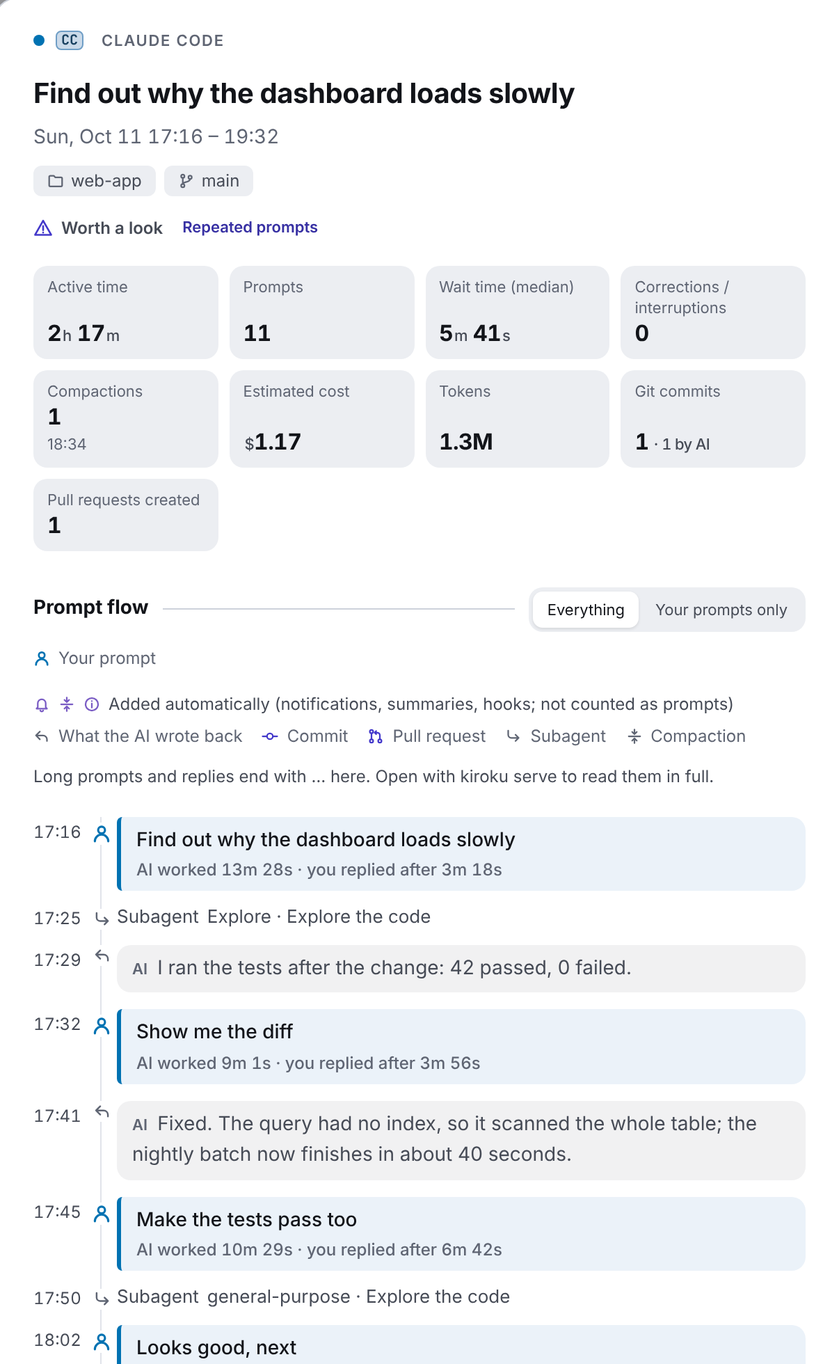
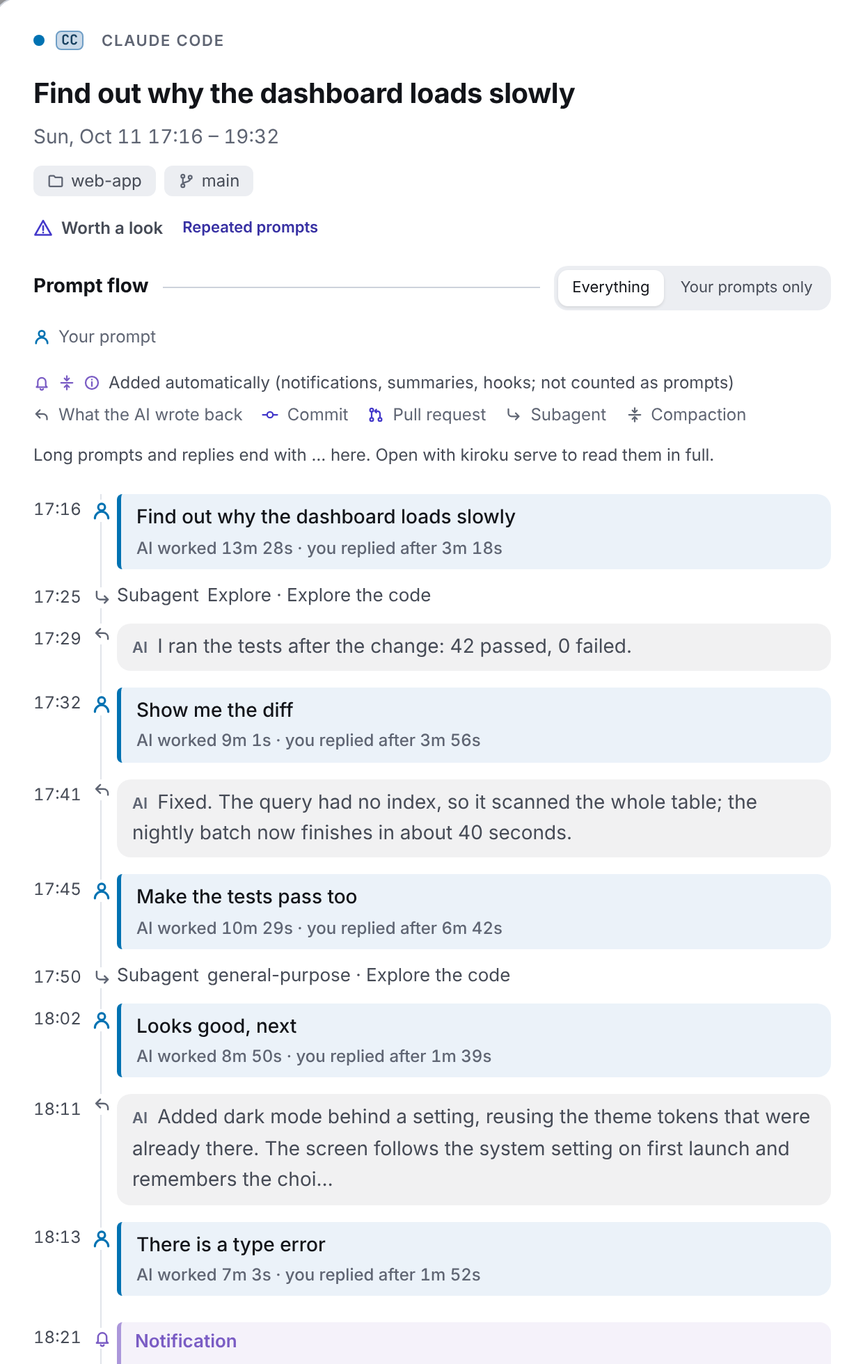
View: "Kiro IDE / CLI (V3)" name, and session details with the prompt flow on the left (#486)
* Show Kiro IDE / CLI as "Kiro IDE / CLI (V3)"; keep the kiroku json value

The shared Kiro IDE and Kiro CLI V3 history now reads "Kiro IDE / CLI
(V3)" in the view and docs, next to "Kiro CLI (V2)". kiroku json's
source value is part of what 1.0 keeps compatible, so writeJSON maps
it back to "Kiro IDE / CLI" on copies of the sessions (they are
shared with the serve cache). compatibility.md notes the difference.

* Session details: prompt flow on the left; actions, numbers and what was left on the right

- left column: only the prompt flow
- right column, top to bottom: actions (resume command, Analyze with
  AI, history file), numbers (stats, models, tools, the agent's own
  metrics), then commits, pull requests, files and subagents
- narrow screens: actions, numbers, prompt flow, then the rest (one
  resume block instead of a top and a side copy)
- Analyze with AI moves from the flow heading to the actions; the
  session panel uses its own .scols/.sflow/.sside classes so the commit,
  push and PR panels keep their layout
- smoke.mjs checks the flow column holds only the flow; capture.mjs
  crops session.png to it; screenshots retaken; guide updated

* View: session details keep HTML order equal to visual order, key numbers only above the flow

On one column, put only the actions and the key numbers before the prompt
flow, and the history file, models, tools and agent metrics after it. The
HTML now follows the visual order, so Tab goes actions, numbers, flow, rest
[…]

diff --git a/internal/web/js/session.js b/internal/web/js/session.js
@@ -15,8 +15,12 @@ function detail(s){
   P.innerHTML = `<div style="--c:${colorOf(keyOf(s))}">
     ${dHead(agMark(s.source) + esc(s.source), s.title, `${md(s.start)} ${hm(s.start)} – ${sameDay ? "" : md(s.end)+" "}${hm(s.end)}`, [projTag(s.project), branchTag(s.branch)])}
     ${sesFlags(s)}
-    ${s.resume ? `<div class="dresume dtop"><h3>${esc(t("Resume"))}</h3>${codeH(s.resume, "resume")}</div>` : ""}
-    <div class="dcols"><div class="dcol">
+    <div class="scols">
+    <section class="sact" aria-label="${esc(t("Actions"))}">
+    ${s.resume ? `<div class="dresume"><h3>${esc(t("Resume"))}</h3>${codeH(s.resume, "resume")}</div>` : ""}
+    ${s.prompts.length ? `<div class="drun">${aiBtn("srun", t("Analyze with AI: session review"))}</div>` : ""}
+    </section>
+    <section class="smet" aria-label="${esc(t("Metrics"))}">
     <div class="mini tight">
       <div><div class="k">${esc(t("Active time"))}</div><div class="v">${dur(active,true)}</div></div>
       <div><div class="k">${esc(t("Prompts"))}</div><div class="v">${s.nPrompts}</div></div>
@@ -33,27 +37,31 @@ function detail(s){
       <div><div class="k">${esc(t("Tokens"))}</div><div class="v">${tok(allTok)}</div></div>${credH}
 ` : credH}
     </div>
+    </section>
+    <div class="sflow">
     ${s.prompts.length ? promptFlow(s) : `<h3>${esc(t("Prompt flow"))}</h3>${noneH(esc(s.source === "Kiro Crew" ? t("No prompts recorded. Kiro Crew deletes conversation records after a while, so only the usage record remains for this conversation.") : t("No prompts recorded.")))}`}
+    </div>
+    <section class="sinfo" aria-label="${esc(t("Information"))}">
+    ${s.file ? `<h3>${esc(t("History file"))}</h3>${codeH(s.file, "", `<a class="copy" href="${esc(LIVE ? "history?id=" + encodeURIComponent(s.id) : fileHref(s.file))}" ${LIVE ? "data-hist" : `target="_blank" rel="noopener"`}>${esc(t("Open"))}</a>`)}` : ""}
+    ${s.models.length ? `<h3>${esc(t("Models used"))}</h3><div class="chips">${(mc => s.models.map(([m,n],i)=>`<span class="mono mdl" style="--m:${mc[i]}"><i aria-hidden="true"></i>${esc((m))}<b>${n}</b></span>`).join(""))(modelColors(s.models.map(([m]) => m)))}</div>` : ""}
+    ${s.tiers && s.tiers.length ? `<h3>${esc(t("Service tier"))}</h3><div class="chips">${s.tiers.map(([t,n])=>`<span class="mono">${esc(t)}<b>${n}</b></span>`).join("")}</div>` : ""}
+    <h3>${esc(t("Tools used"))}</h3>
+    ${s.tools.length ? s.tools.map(([k,v],i)=>`<div class="trow"><span class="nm">${toolIcon(k)}<span>${esc(k)}</span></span><span class="track2"><span style="width:${v/maxT*100}%;background:var(--c${i % 8})"></span></span><span class="n">${v}</span></div>`).join("") : noneH(esc(t("None recorded")))}
+    ${s.native && s.native.length ? `<h3>${esc(t("{agent} metrics", {agent: s.source}))}</h3>${nativeRows(s.native)}<p class="note">${esc(t("Numbers this agent records itself. Definitions differ from other agents."))}</p>` : ""}
+    ${sessionCommits(s)}
+    ${s.prs && s.prs.length ? `<h3>${esc(t("Pull requests created"))} · ${s.prs.length}</h3><ul class="files">${s.prs.map(u => pathRow(u, ext(u, esc(u.replace(/^https?:\/\//, ""))), "pr")).join("")}</ul>` : ""}
+    <h3>${esc(t("Files edited by AI"))}${s.files.length || records(s.source, "files") ? ` · ${s.nFiles}` : ""}</h3>
+    ${(() => { if (!s.files.length) return noneH(esc(records(s.source, "files") ? t("None") : notRec([s.source]))); const us = s.files.map(f => fileLink(s, f)), ls = s.files.map((f, i) => us[i] ? "" : localHref(f, s.projectPath)); // コミットのリンクがなければ、この PC のファイル。断り書きは、そのリンクがあるときだけ
+      return `<ul class="files">${s.files.map((f, i) => pathRow(f, fileA(us[i] || ls[i], esc(f)))).join("")}</ul>${us.some(Boolean) || ls.some(Boolean) ? `<p class="note">${esc([us.some(Boolean) ? t("Links marked ↗ open the file on the remote as of the commits made during this session.") : "", ls.some(Boolean) ? (us.some(Boolean) ? t("Other links open the file on this computer as it is now.") : t("Links open the file on this computer as it is now.")) : ""].filter(Boolean).join(JA ? "" : " "))}</p>` : ""}`; })()}
     ${s.subagents.length ? `<h3>${esc(t("Subagents"))} · ${s.subagents.length}</h3>${s.subagents.map(a=>{
         const span = Math.max(1, s.end - s.start), l = a.start ? Math.max(0,(a.start - s.start)/span*100) : 0, w = a.start && a.end ? Math.max(.8,(a.end - a.start)/span*100) : .8;
         const u = a.usage, tt = u.in + u.out + u.cw + u.cw1h + u.cr;
         return `<div class="sub"><div class="hd"><span class="ty">${esc(a.type)}</span><span class="ds">${esc(a.desc || t("(no description)"))}</span>${a.bg?`<span class="bg">${esc(t("Background"))}</span>`:""}</div>
           <div class="lane"><span style="left:${l}%;width:${Math.min(w,100-l)}%"></span></div>
           <div class="ft">${a.start?`<span>${hm(a.start)}${a.end?"–"+hm(a.end):""}</span>`:""}${a.start&&a.end?`<span>${dur((a.end-a.start)/60)}</span>`:""}${tt?`<span>${esc(t("{n} tokens", {n: tok(tt)}))}</span>`:u.reportedTokens?`<span>${esc(t("{n} tokens (reported)", {n: tok(u.reportedTokens)}))}</span>`:""}${u.cost?`<span>${usd(u.cost)}</span>`:""}${a.model?`<span>${esc(a.model)}</span>`:""}${a.tools?`<span>${esc(plural(a.tools, "tool call"))}</span>`:""}</div></div>`; }).join("")}` : ""}
-    </div><div class="dcol">
-    ${s.resume ? `<div class="dresume dside"><h3>${esc(t("Resume"))}</h3>${codeH(s.resume, "resume")}</div>` : ""}
-    ${sessionCommits(s)}
-    ${s.prs && s.prs.length ? `<h3>${esc(t("Pull requests created"))} · ${s.prs.length}</h3><ul class="files">${s.prs.map(u => pathRow(u, ext(u, esc(u.replace(/^https?:\/\//, ""))), "pr")).join("")}</ul>` : ""}
-    <h3>${esc(t("Files edited by AI"))}${s.files.length || records(s.source, "files") ? ` · ${s.nFiles}` : ""}</h3>
-    ${(() => { if (!s.files.length) return noneH(esc(records(s.source, "files") ? t("None") : notRec([s.source]))); const us = s.files.map(f => fileLink(s, f)), ls = s.files.map((f, i) => us[i] ? "" : localHref(f, s.projectPath)); // コミットのリンクがなければ、この PC のファイル。断り書きは、そのリンクがあるときだけ
-      return `<ul class="files">${s.files.map((f, i) => pathRow(f, fileA(us[i] || ls[i], esc(f)))).join("")}</ul>${us.some(Boolean) || ls.some(Boolean) ? `<p class="note">${esc([us.some(Boolean) ? t("Links marked ↗ open the file on the remote as of the commits made during this session.") : "", ls.some(Boolean) ? (us.some(Boolean) ? t("Other links open the file on this computer as it is now.") : t("Links open the file on this computer as it is now.")) : ""].filter(Boolean).join(JA ? "" : " "))}</p>` : ""}`; })()}
-    ${s.models.length ? `<h3>${esc(t("Models used"))}</h3><div class="chips">${(mc => s.models.map(([m,n],i)=>`<span class="mono mdl" style="--m:${mc[i]}"><i aria-hidden="true"></i>${esc((m))}<b>${n}</b></span>`).join(""))(modelColors(s.models.map(([m]) => m)))}</div>` : ""}
-    ${s.tiers && s.tiers.length ? `<h3>${esc(t("Service tier"))}</h3><div class="chips">${s.tiers.map(([t,n])=>`<span class="mono">${esc(t)}<b>${n}</b></span>`).join("")}</div>` : ""}
-    <h3>${esc(t("Tools used"))}</h3>
-    ${s.tools.length ? s.tools.map(([k,v],i)=>`<div class="trow"><span class="nm">${toolIcon(k)}<span>${esc(k)}</span></span><span class="track2"><span style="width:${v/maxT*100}%;background:var(--c${i % 8})"></span></span><span class="n">${v}</span></div>`).join("") : noneH(esc(t("None recorded")))}
-    ${s.native && s.native.length ? `<h3>${esc(t("{agent} metrics", {agent: s.source}))}</h3>${nativeRows(s.native)}<p class="note">${esc(t("Numbers this agent records itself. Definitions differ from other agents."))}</p>` : ""}
-    ${s.file ? `<h3>${esc(t("History file"))}</h3>${codeH(s.file, "", `<a class="copy" href="${esc(LIVE ? "history?id=" + encodeURIComponent(s.id) : fileHref(s.file))}" ${LIVE ? "data-hist" : `target="_blank" rel="noopener"`}>${esc(t("Open"))}</a>`)}` : ""}
-  </div></div></div>`;
+    </section>
+    </div>
+  </div>`;
   bindGitEvents(P);
   const hl = P.querySelector("a[data-hist]"); if (hl) hl.onclick = e => { e.preventDefault(); saveHistory(s, hl); };
   P.querySelectorAll(".sflags [data-goto]").forEach(b => b.onclick = () => openWorth(b.dataset.goto, b));
@@ -153,7 +161,7 @@ function promptFlow(s){
   const rest = s.prompts.length - FLOW_SHOW, also = hiddenEv ? ` (and ${plural(hiddenEv, "other event")})` : "";
   const showMore = JA ? (hiddenEv ? t("Show {n} more prompts (and {m} other events)", {n: rest, m: hiddenEv}) : t("Show {n} more prompts", {n: rest})) : `Show ${plural(rest, "more prompt")}${also}`;
   // 見出しと出し方の切り替えは 1 行に（最初の画面に入るプロンプトを 1 つでも多くする）
-  const bar = `<div class="flowhead"><h3>${esc(t("Prompt flow"))}</h3><div class="flowbar"><div class="segc" role="group" aria-label="${esc(t("Show"))}" id="flowBy"><button data-v="all" aria-pressed="${!st.flowUser}">${esc(t("Everything"))}</button><button data-v="user" aria-pressed="${!!st.flowUser}">${esc(t("Your prompts only"))}</button></div>${aiBtn("srun", t("Analyze with AI: session review"))}</div></div>`;
+  const bar = `<div class="flowhead"><h3>${esc(t("Prompt flow"))}</h3><div class="flowbar"><div class="segc" role="group" aria-label="${esc(t("Show"))}" id="flowBy"><button data-v="all" aria-pressed="${!st.flowUser}">${esc(t("Everything"))}</button><button data-v="user" aria-pressed="${!!st.flowUser}">${esc(t("Your prompts only"))}</button></div></div></div>`;
   const cutNote = !LIVE && s.prompts.some(p => p.len > 0 || (p.reply && p.reply.len > 0)) ? `<p class="note">${esc(t("Long prompts and replies end with … here. Open with kiroku serve to read them in full."))}</p>` : "";
   return `${bar}<div class="tlkey${st.flowUser ? " only-user" : ""}">${key}</div>${cutNote}<ol class="tl${st.flowUser ? " only-user" : ""}">${rows.join("")}</ol>${rest > 0 ? `<button class="more pall">${esc(showMore)}</button>` : ""}${s.prompts.some(p => p.work) ? `<p class="note">${esc(t("\"AI worked\" is the time from a prompt to the AI's last activity; \"you replied after\" is the time from there to your next prompt. Both are estimates from the history's timestamps."))}</p>` : ""}${s.prompts.some(p => p.reply) ? `<p class="note">${esc(t("The reply after a prompt is the last thing the AI wrote to you in that turn, in its own words — not its thinking, its tool calls or their output. A turn where it only ran tools, or whose words the agent does not record, has no reply. A long one shows its first {n} characters.", {n: REPLY_RUNES}))}</p>` : ""}`;
 }

diff --git a/internal/web/style.css b/internal/web/style.css
@@ -531,7 +531,7 @@ button.more{display:block;text-align:left}
 .files .fp a:focus-visible,.drawer .gfiles span>a:focus-visible{outline-offset:-2px} /* 行は overflow:hidden なので、枠を内側に描いて切れないように */
 .drawer .gfiles span>.ic{color:var(--ink-3);margin-right:6px;vertical-align:-2px}
 .drawer .dresume{margin-top:14px}.drawer .dresume>h3:first-child{margin-top:0}
-.drawer .dresume.dside{display:none} /* 再開のコマンドは、1 列の画面では詳細のいちばん上に、2 列の画面では右の列のいちばん上に */
+.drawer .drun{margin-top:14px}
 
 /* エージェント別 */
 .ngroups{margin-top:8px}
@@ -589,13 +589,23 @@ button.more{display:block;text-align:left}
 body.open .scrim{opacity:1;pointer-events:auto}
 body.open .drawer{opacity:1;visibility:visible;pointer-events:auto;transform:translate(-50%,-50%);transition:transform .28s var(--ease),opacity .2s var(--ease)}
 .drawer .mini{grid-template-columns:repeat(3,minmax(0,1fr))}
-/* 広い画面では、左に「何をしたか」（数値・依頼の流れ）、右に「何が残ったか」（コミット・PR・ファイル） */
+/* 左はプロンプトの流れだけ。右は上から、操作（再開・AI 分析）、数値、情報（履歴ファイル・モデル・ツール・コミット・PR・ファイル・サブエージェント）。
+   HTML も 1 列の画面も、操作 → 数値 → 流れ → 情報の順（Tab の順と見た目の順をそろえる）。広い画面では流れだけを左の列に置く */
+.drawer .scols{margin-top:10px}
+.drawer .sact>:first-child{margin-top:0}
+/* コミット・push・PR の詳細（git.js）は、広い画面で左に中身、右にファイルなど */
 @media (min-width:1100px){
   .drawer{width:min(1080px,calc(100vw - 48px))}
+  /* 右の列は 3 行（操作・数値・情報）。流れは左の列の 3 行を通しで使い、流れのほうが長いときの余りは最後の行（1fr）が受ける */
+  .drawer .scols{display:grid;grid-template-columns:minmax(0,1.4fr) minmax(0,1fr);grid-template-rows:auto auto 1fr;column-gap:40px;margin-top:18px}
+  .drawer .sflow{grid-column:1;grid-row:1 / 4;align-self:start}
+  .drawer .sact,.drawer .smet,.drawer .sinfo{grid-column:2;border-left:1px solid var(--rule);padding-left:40px}
+  .drawer .sact{grid-row:1}.drawer .smet{grid-row:2}.drawer .sinfo{grid-row:3}
+  .drawer .sflow>:first-child,.drawer .sact>:first-child>:first-child{margin-top:0}
+  .drawer .smet .mini.tight{grid-template-columns:repeat(2,minmax(0,1fr))} /* 右の列は狭いので 2 列（.mini.tight の 4 列より強く） */
   .drawer .dcols{display:grid;grid-template-columns:minmax(0,1.3fr) minmax(0,1fr);gap:0 40px;margin-top:18px}
   .drawer .dcol>:first-child{margin-top:0}
   .drawer .dcol+.dcol{border-left:1px solid var(--rule);padding-left:40px}
-  .drawer .dresume.dtop{display:none}.drawer .dresume.dside{display:block;margin-top:0}
 }
 /* 戻る・閉じるは、中身の 1 行目（種類の小見出し）の右に重ねる。ボタンだけの空いた帯を作らない。中身をスクロールしても押せるよう、パネルの上に固定する */
 .drawer .dh{position:absolute;top:10px;right:14px;z-index:2;display:flex;align-items:center;gap:4px;padding:2px;border-radius:11px;background:color-mix(in oklab,var(--surface) 88%,transparent);backdrop-filter:blur(6px)}

diff --git a/internal/web/testdata/records_test.js b/internal/web/testdata/records_test.js
@@ -3,13 +3,13 @@
 const eq = (got, want, msg) => { if (JSON.stringify(got) !== JSON.stringify(want)){ console.error(`${msg}: ${JSON.stringify(got)} ではなく ${JSON.stringify(want)} のはず`); process.exitCode = 1; } };
 const ses = (source, start) => ({source, start, end: start + 60});
 eq(records("Claude Code", "limits"), true, "Claude Code は上限を記録する");
-eq(records("Kiro IDE / CLI", "limits"), false, "Kiro IDE は上限を記録しない");
+eq(records("Kiro IDE / CLI (V3)", "limits"), false, "Kiro IDE は上限を記録しない");
 eq(records("Unknown agent", "files"), false, "表にないエージェントは記録しないとみなす");
-DATA = [ses("Kiro IDE / CLI", 100), ses("Kiro CLI (V2)", 200), ses("Kiro IDE / CLI", 300)];
-eq(unrecorded(0, 1000, "limits"), ["Kiro IDE / CLI", "Kiro CLI (V2)"], "どれも記録しないなら、そのエージェントの名前（重ねない）");
+DATA = [ses("Kiro IDE / CLI (V3)", 100), ses("Kiro CLI (V2)", 200), ses("Kiro IDE / CLI (V3)", 300)];
+eq(unrecorded(0, 1000, "limits"), ["Kiro IDE / CLI (V3)", "Kiro CLI (V2)"], "どれも記録しないなら、そのエージェントの名前（重ねない）");
 eq(unrecorded(0, 1000, "files"), null, "どれかが記録するなら null（0 を出す）");
 eq(unrecorded(5000, 6000, "limits"), null, "期間にセッションがなければ null");
 DATA.push(ses("Claude Code", 400));
 eq(unrecorded(0, 1000, "limits"), null, "記録するエージェントが混ざれば null");
-eq(unrecorded(0, 150, "limits"), ["Kiro IDE / CLI"], "期間の外のセッションは見ない");
-eq(notRec(["Kiro IDE / CLI", "Kiro CLI (V2)"]), "Not recorded in Kiro IDE / CLI, Kiro CLI (V2) history", "言い方");
+eq(unrecorded(0, 150, "limits"), ["Kiro IDE / CLI (V3)"], "期間の外のセッションは見ない");
+eq(notRec(["Kiro IDE / CLI (V3)", "Kiro CLI (V2)"]), "Not recorded in Kiro IDE / CLI (V3), Kiro CLI (V2) history", "言い方");

diff --git a/internal/web/js/i18n.js b/internal/web/js/i18n.js
@@ -162,6 +162,9 @@ const JA_TEXT = {
   "(private)": "（非公開）",
   "Kiro Crew (private conversations check)": "Kiro Crew（非公開の会話の確認）",
   "kiroku version {v}": "kiroku の版 {v}",
+  "Actions": "操作",
+  "Metrics": "数値",
+  "Information": "情報",
   "All {want} sections are missing": "{want} 個の節がすべてありません",
   "{n} of the {want} sections are missing": "{want} 個の節のうち {n} 個がありません",
   "The numbers table is missing": "数字の表がありません",
@@ -305,7 +308,7 @@ const JA_TEXT = {
   "Interruption": "中断",
   "Keyboard shortcuts": "キーボードショートカット",
   "Keyboard shortcuts (?)": "キーボードショートカット（?）",
-  "Kiro CLI V2 (kiro-cli --v2, and the default before Kiro CLI 3.0); V3 sessions are under Kiro IDE / CLI": "Kiro CLI V2（kiro-cli --v2。Kiro CLI 3.0 より前の既定）。V3 のセッションは Kiro IDE / CLI に入ります",
+  "Kiro CLI V2 (kiro-cli --v2, and the default before Kiro CLI 3.0); V3 sessions are under Kiro IDE / CLI (V3)": "Kiro CLI V2（kiro-cli --v2。Kiro CLI 3.0 より前の既定）。V3 のセッションは Kiro IDE / CLI (V3) に入ります",
   "Kiro IDE 1.x and Kiro CLI V3, which share one history that doesn't record which of them ran a session": "Kiro IDE 1.x と Kiro CLI V3。同じ履歴を使い、どちらで動かしたセッションかは記録されません",
   "Kiro credits": "Kiro クレジット",
   "LIVE": "LIVE",

diff --git a/internal/web/testdata/aiagent_test.js b/internal/web/testdata/aiagent_test.js
@@ -2,7 +2,7 @@
 const eq = (got, want, msg) => { if (got !== want){ console.error(`${msg}: ${JSON.stringify(got)} ではなく ${JSON.stringify(want)} のはず`); process.exitCode = 1; } };
 eq(aiAgentOf("Claude Code"), "claude", "Claude Code は claude");
 eq(aiAgentOf("Codex"), "codex", "Codex は codex");
-eq(aiAgentOf("Kiro IDE / CLI"), "kiro", "Kiro は kiro-cli");
+eq(aiAgentOf("Kiro IDE / CLI (V3)"), "kiro", "Kiro は kiro-cli");
 eq(aiAgentOf("Kiro CLI (V2)"), "kiro", "Kiro CLI (V2) も kiro-cli");
 eq(aiAgentOf("Amazon Q"), "", "動かすコマンドのないエージェントは空");
 const st = {hidden: new Set()}, keyOf = s => s.project;

diff --git a/internal/cli/load_test.go b/internal/cli/load_test.go
@@ -47,7 +47,7 @@ func setup(t *testing.T) (data any, weeks map[string]*report.Week, rep []source.
 		KiroStorages: []string{filepath.Join(h, ".config", "Kiro", "User", "globalStorage", "kiro.kiroagent")},
 	})
 	// Python 版にあった 4 つの履歴だけで比べる（あとから足したアダプターは internal/source のテストで確かめる）
-	python := map[string]bool{"Claude Code": true, "Kiro IDE / CLI": true, "Kiro CLI (V2)": true, "Kiro IDE (legacy)": true}
+	python := map[string]bool{"Claude Code": true, "Kiro IDE / CLI (V3)": true, "Kiro CLI (V2)": true, "Kiro IDE (legacy)": true}
 	var picked []source.Source
 	for _, s := range all {
 		if python[s.Name()] {
@@ -164,7 +164,7 @@ func TestKiroIDEMigratedCountedOnce(t *testing.T) {
 	for _, r := range rep {
 		n[r.Name] = r
 	}
-	if r := n["Kiro IDE / CLI"]; r.N != 1 || r.Error != nil {
+	if r := n["Kiro IDE / CLI (V3)"]; r.N != 1 || r.Error != nil {
 		t.Errorf("Kiro IDE: n=%d err=%v, want 1", r.N, r.Error)
 	}
 	if r := n["Kiro IDE (legacy)"]; r.N != 1 || r.Dup != 1 || r.Error != nil {
@@ -174,7 +174,7 @@ func TestKiroIDEMigratedCountedOnce(t *testing.T) {
 		t.Fatalf("セッション数 = %d, want 2", len(data))
 	}
 	for _, s := range data {
-		if s.ID == "conv-a" && s.Source != "Kiro IDE / CLI" {
+		if s.ID == "conv-a" && s.Source != "Kiro IDE / CLI (V3)" {
 			t.Errorf("conv-a は v1.0 のほうを使う: %s", s.Source)
 		}
 	}
@@ -216,7 +216,7 @@ func TestKiroIDEMigratedOnlyLegacyYields(t *testing.T) {
 	for _, r := range rep {
 		n[r.Name] = r
 	}
-	if r := n["Kiro IDE / CLI"]; r.N != 5 || r.Dup != 0 {
+	if r := n["Kiro IDE / CLI (V3)"]; r.N != 5 || r.Dup != 0 {
 		t.Errorf("Kiro IDE: n=%d dup=%d, want 5 と 0（v1.0 どうしは外さない）", r.N, r.Dup)
 	}
 	if r := n["Kiro IDE (legacy)"]; r.N != 2 || r.Dup != 0 {
@@ -271,7 +271,7 @@ func TestKiroClassicConvertedToV3CountsOnce(t *testing.T) {
 	for _, s := range data {
 		credits[s.Source+" "+s.ID] = s.Credits
 	}
-	want := map[string]float64{"Kiro IDE / CLI sess_u1": 3.5, "Kiro IDE / CLI sess_u2": 1, "Kiro CLI (V2) u3": 4}
+	want := map[string]float64{"Kiro IDE / CLI (V3) sess_u1": 3.5, "Kiro IDE / CLI (V3) sess_u2": 1, "Kiro CLI (V2) u3": 4}
 	if len(credits) != len(want) {
 		t.Errorf("セッション = %v, want %v", credits, want)
 	}

diff --git a/internal/source/kiro.go b/internal/source/kiro.go
@@ -16,10 +16,10 @@ import (
 )
 
 // KiroIDE は Kiro IDE v1.0 以降と Kiro CLI V3 が共有する保存場所: <KIRO_HOME>/sessions/<hash>/sess_<id>/{session.json,messages.jsonl}（行ごとに timestamp あり）。
-// どちらが作った会話かは記録されないので、"Kiro IDE / CLI" として出す。
+// どちらが作った会話かは記録されないので、"Kiro IDE / CLI (V3)" として出す。
 type KiroIDE struct{ Home string }
 
-func (k *KiroIDE) Name() string   { return "Kiro IDE / CLI" }
+func (k *KiroIDE) Name() string   { return "Kiro IDE / CLI (V3)" }
 func (k *KiroIDE) Family() string { return "kiro" }
 func (k *KiroIDE) Where() string  { return filepath.Join(k.Home, "sessions") }
 
@@ -84,7 +84,7 @@ func (k *KiroIDE) Load(emit func(*core.Builder)) error {
 		raw, err := core.ReadJSONFile(metaPath)
 		errs.file(metaPath, err)
 		meta := core.Map(raw)
-		s := core.NewBuilder("Kiro IDE / CLI", firstNonEmpty(core.Str(meta["id"]), filepath.Base(dir)))
+		s := core.NewBuilder("Kiro IDE / CLI (V3)", firstNonEmpty(core.Str(meta["id"]), filepath.Base(dir)))
 		// v1.0 へ移した会話は、v1.0 より前の形式（KiroIDELegacy）にも同じ ID で残る。v1.0 のほうを使う（kiro-history と同じ）。
 		// id のない会話（フォルダ名の ID）は、v1.0 より前の会話と同じものかわからないので Claim しない
 		id := core.Str(meta["id"])
@@ -219,7 +219,7 @@ func (k *KiroIDE) Load(emit func(*core.Builder)) error {
 	return errs.err()
 }
 
-// kiroReply は、入れるのを待っている Kiro IDE / CLI の応答。
+// kiroReply は、入れるのを待っている Kiro IDE / CLI (V3) の応答。
 type kiroReply struct {
 	t    *float64
 	text string

diff --git a/internal/cli/cli.go b/internal/cli/cli.go
@@ -441,8 +441,27 @@ func writeHTML(snap snapshot, out string, open bool, lang string) error {
 // jsonSchema は kiroku json の形の版。docs/compatibility.md の項目を消したり、名前や意味を変えたりしたら上げる（BREAKING）。
 const jsonSchema = 1
 
+// jsonSource は、画面の名前を変えたソースの、kiroku json の source の値（docs/compatibility.md が約束した値）。
+// 画面では Kiro IDE / CLI (V3) と出すが、1.0 で決めた "Kiro IDE / CLI" を変えるのは互換を壊す変更なので、書き出すときに戻す。
+var jsonSource = map[string]string{"Kiro IDE / CLI (V3)": "Kiro IDE / CLI"}
+
+// jsonSessions は、kiroku json に書くセッション。source を jsonSource の値に戻す（セッションは kiroku serve のキャッシュと
+// 共有しているので、変えるものは写しにする）。
+func jsonSessions(data []*core.Session) []*core.Session {
+	out := make([]*core.Session, len(data))
+	for i, s := range data {
+		if v, ok := jsonSource[s.Source]; ok {
+			c := *s
+			c.Source = v
+			s = &c
+		}
+		out[i] = s
+	}
+	return out
+}
+
 func writeJSON(snap snapshot, out string) error {
-	b, err := json.MarshalIndent(map[string]any{"schemaVersion": jsonSchema, "sessions": snap.data, "weeks": snap.weeks, "months": snap.months, "meta": snap.meta}, "", " ")
+	b, err := json.MarshalIndent(map[string]any{"schemaVersion": jsonSchema, "sessions": jsonSessions(snap.data), "weeks": snap.weeks, "months": snap.months, "meta": snap.meta}, "", " ")
 	if err != nil {
 		return err
 	}

diff --git a/tools/screenshots/gen.py b/tools/screenshots/gen.py
@@ -1,4 +1,4 @@
-"""スクリーンショット用のダミーの履歴を作る（Claude Code・Codex CLI・Kiro CLI (V2)・Kiro IDE / CLI、架空の 4 プロジェクト、今日までの約 5 週間）。
+"""スクリーンショット用のダミーの履歴を作る（Claude Code・Codex CLI・Kiro CLI (V2)・Kiro IDE / CLI (V3)、架空の 4 プロジェクト、今日までの約 5 週間）。
 スクリーンショットは英語表示で撮るので、プロンプトも英語にする。
 
   python3 gen.py <出力先>   → <出力先>/home/.claude/projects・<出力先>/home/.codex・<出力先>/home/.kiro と <出力先>/repos/<プロジェクト>
@@ -114,7 +114,7 @@ for d in range(35, -1, -1):
 os.makedirs(os.path.join(OUT, "home", ".claude"), exist_ok=True)
 json.dump({"cleanupPeriodDays": 3650}, open(os.path.join(OUT, "home", ".claude", "settings.json"), "w"))
 
-# ほかのエージェント（Codex CLI・Kiro CLI (V2)・Kiro IDE / CLI）の履歴も作る。kiroku は複数のエージェントを 1 つの画面に並べるので、デモもそう見せる。
+# ほかのエージェント（Codex CLI・Kiro CLI (V2)・Kiro IDE / CLI (V3)）の履歴も作る。kiroku は複数のエージェントを 1 つの画面に並べるので、デモもそう見せる。
 # Claude Code の分のあとに別の乱数で作るので、Claude Code のダミーデータは変わらない
 oth = random.Random(19)
 def iso(t): return t.astimezone(dt.timezone.utc).isoformat().replace("+00:00", "Z")

diff --git a/internal/core/records.go b/internal/core/records.go
@@ -17,14 +17,14 @@ import "slices"
 // Kiro Crew の会話は kiro-cli の履歴にあるものとないもの（Crew の使用量の記録と会話ログだけのもの）があり、
 // ないものは編集したファイルを記録しないので、files に入れない（あるものは、編集があればそのまま見せる）。
 var Records = map[string][]string{
-	"Claude Code":       {"interrupts", "limits", "compactions", "files", "subagents", "outputs"},
-	"Codex":             {"interrupts", "limits", "compactions", "files", "subagents"},
-	"Kiro IDE / CLI":    {"files"},
-	"Kiro IDE (legacy)": {},
-	"Kiro CLI (V2)":     {"files"},
-	"Kiro Crew":         {"limits", "subagents"},
-	"Kiro CLI (SQLite)": {"interrupts", "compactions", "files"},
-	"Amazon Q":          {"interrupts", "compactions", "files"},
+	"Claude Code":         {"interrupts", "limits", "compactions", "files", "subagents", "outputs"},
+	"Codex":               {"interrupts", "limits", "compactions", "files", "subagents"},
+	"Kiro IDE / CLI (V3)": {"files"},
+	"Kiro IDE (legacy)":   {},
+	"Kiro CLI (V2)":       {"files"},
+	"Kiro Crew":           {"limits", "subagents"},
+	"Kiro CLI (SQLite)":   {"interrupts", "compactions", "files"},
+	"Amazon Q":            {"interrupts", "compactions", "files"},
 }
 
 // RecordsOf は、source の履歴が what（Records の説明の名前）を記録するか。

diff --git a/internal/core/agents.go b/internal/core/agents.go
@@ -27,10 +27,10 @@ var AgentWarnSlots = []int{1, 4}
 // Amazon Q は Kiro CLI の前身なので同じ色にする。
 var Agents = []Agent{
 	{Name: "Claude Code", Family: "claude", Slot: 0, Mark: "CC", Env: []string{"CLAUDE_CONFIG_DIR"}, Archive: "claude"},
-	{Name: "Kiro IDE / CLI", Family: "kiro", Slot: 6, Mark: "KI", Env: []string{"KIRO_HOME"},
+	{Name: "Kiro IDE / CLI (V3)", Family: "kiro", Slot: 6, Mark: "KI", Env: []string{"KIRO_HOME"},
 		About: "Kiro IDE 1.x and Kiro CLI V3, which share one history that doesn't record which of them ran a session"},
 	{Name: "Kiro IDE (legacy)", Family: "kiro", Slot: 6, Mark: "KI"},
-	{Name: "Kiro CLI (V2)", Family: "kiro", Slot: 5, Mark: "KC", Env: []string{"KIRO_HOME"}, About: "Kiro CLI V2 (kiro-cli --v2, and the default before Kiro CLI 3.0); V3 sessions are under Kiro IDE / CLI"},
+	{Name: "Kiro CLI (V2)", Family: "kiro", Slot: 5, Mark: "KC", Env: []string{"KIRO_HOME"}, About: "Kiro CLI V2 (kiro-cli --v2, and the default before Kiro CLI 3.0); V3 sessions are under Kiro IDE / CLI (V3)"},
 	{Name: "Kiro CLI (SQLite)", Family: "kiro", Slot: 5, Mark: "KC", About: "older Kiro CLI versions"},
 	{Name: "Kiro Crew", Family: "kiro", Slot: 3, Mark: "KW", Env: []string{"KIROCREW_HOME"}, Archive: "crew", Note: "includes Kiro Crew"},
 	{Name: "Amazon Q", Family: "amazonq", Slot: 5, Mark: "Q"},

diff --git a/internal/cli/jsonsource_test.go b/internal/cli/jsonsource_test.go
@@ -1,0 +1,37 @@
+package cli
+
+import (
+	"encoding/json"
+	"os"
+	"path/filepath"
+	"testing"
+
+	"github.com/MichinaoShimizu/kiroku/internal/core"
+)
+
+// 画面では「Kiro IDE / CLI (V3)」と出すが、kiroku json の source は 1.0 で約束した「Kiro IDE / CLI」のまま（docs/compatibility.md）。
+// 書き出すときに写しで戻し、kiroku serve のキャッシュと共有しているセッションは変えない。
+func TestJSONKeepsCompatibleSource(t *testing.T) {
+	v3 := &core.Session{ID: "a", Source: "Kiro IDE / CLI (V3)"}
+	cc := &core.Session{ID: "b", Source: "Claude Code"}
+	out := filepath.Join(t.TempDir(), "k.json")
+	if err := writeJSON(snapshot{data: []*core.Session{v3, cc}}, out); err != nil {
+		t.Fatal(err)
+	}
+	b, err := os.ReadFile(out)
+	if err != nil {
+		t.Fatal(err)
+	}
+	var doc struct {
+		Sessions []struct{ Source string } `json:"sessions"`
+	}
+	if err := json.Unmarshal(b, &doc); err != nil {
+		t.Fatal(err)
+	}
+	if len(doc.Sessions) != 2 || doc.Sessions[0].Source != "Kiro IDE / CLI" || doc.Sessions[1].Source != "Claude Code" {
+		t.Errorf("sources = %+v", doc.Sessions)
+	}
+	if v3.Source != "Kiro IDE / CLI (V3)" {
+		t.Errorf("共有しているセッションを変えた: %q", v3.Source)
+	}
+}
